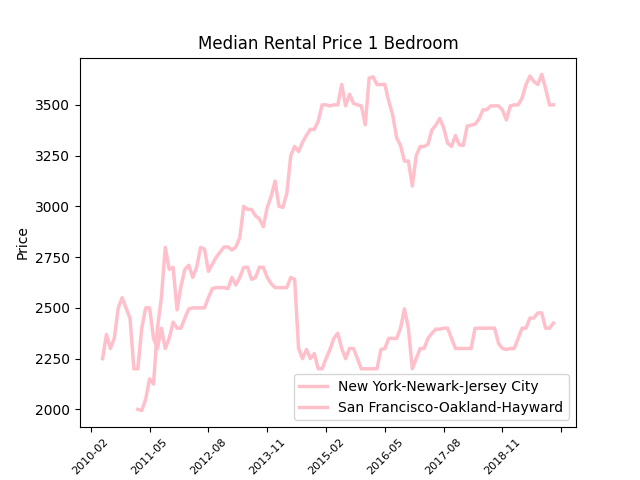
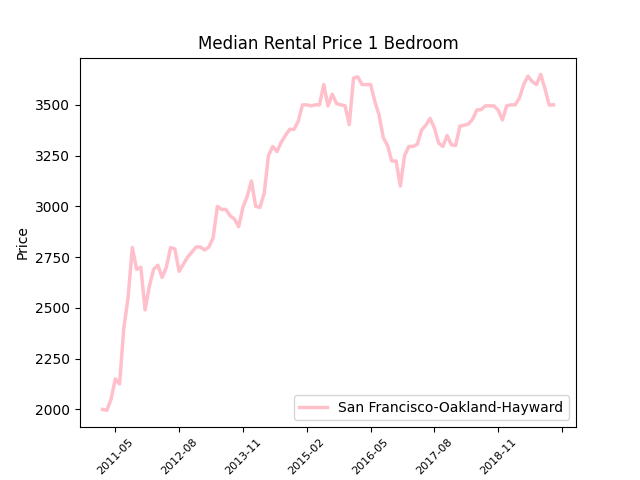
pushed

diff --git a/housingDataFunction.py b/housingDataFunction.py
@@ -5,12 +5,12 @@ import matplotlib.ticker as ticker
 
 def plot_housing_prices_for_city(city):
     # read csv file into pandas dataframe
-    housing = pd.read_csv('/archive/City_MedianRentalPrice_1Bedroom.csv')
-    housing2 = pd.read_csv('/archive/City_MedianRentalPrice_2Bedroom.csv')
-    housing3 = pd.read_csv('/archive/City_MedianRentalPrice_3Bedroom.csv')
-    housing4 = pd.read_csv('/archive/City_MedianRentalPrice_4Bedroom.csv')
+    housing = pd.read_csv('archive/City_MedianRentalPrice_1Bedroom.csv')
+    housing2 = pd.read_csv('archive/City_MedianRentalPrice_2Bedroom.csv')
+    housing3 = pd.read_csv('archive/City_MedianRentalPrice_3Bedroom.csv')
+    housing4 = pd.read_csv('archive/City_MedianRentalPrice_4Bedroom.csv')
 
-    i = 1
+    bedroom_count = 1  # Use a different variable for the filename index
     list_images = []
     for h in [housing, housing2, housing3, housing4]:
         housing_cities = h[h['Metro'] == city]
@@ -21,24 +21,26 @@ def plot_housing_prices_for_city(city):
 
         x_values = housing_cities.columns[6:]
         y_values = housing_cities[housing_cities['Metro'] == city].iloc[0, 6:]
-        # y_values if giving me index out of bounds error, why
-        # I think it's because the data is not being read in properly
-        # I need to check the data types of the columns
 
-        plt.plot(x_values, y_values, label=city, color = 'pink', linewidth = 2.5)
+        plt.plot(x_values, y_values, label=city, color='pink', linewidth=2.5)
         plt.xlabel('Year-Month')
         plt.ylabel('Price')
-        plt.title(f'Median Rental Price {i} Bedroom')
+        plt.title(f'Median Rental Price {bedroom_count} Bedroom')
         plt.tick_params(axis='x', which='major', labelsize=8)
         plt.gca().xaxis.set_major_locator(ticker.MaxNLocator(nbins=10))
         plt.xticks(rotation=45)
         plt.legend()
-        # save plot to png
-        plt.savefig(f'/City_MedianRentalPrice_{i}Bedroom_Cities_filtered.png')
-        list_images.append(f'City_MedianRentalPrice_{i}Bedroom_Cities_filtered.png')    
-        i += 1
+        
+        # Save plot to png
+        filename = f'City_MedianRentalPrice_{bedroom_count}Bedroom_Cities_filtered.png'
+        plt.savefig(filename)
+        list_images.append(filename)
+        
+        plt.clf()  # Clear the figure for the next plot
+        bedroom_count += 1  # Increment the bedroom count for the next filename
+
     return list_images
        
     
 # Example usage
-plot_housing_prices_for_city("New York-Newark-Jersey City")
+#plot_housing_prices_for_city("New York-Newark-Jersey City")
